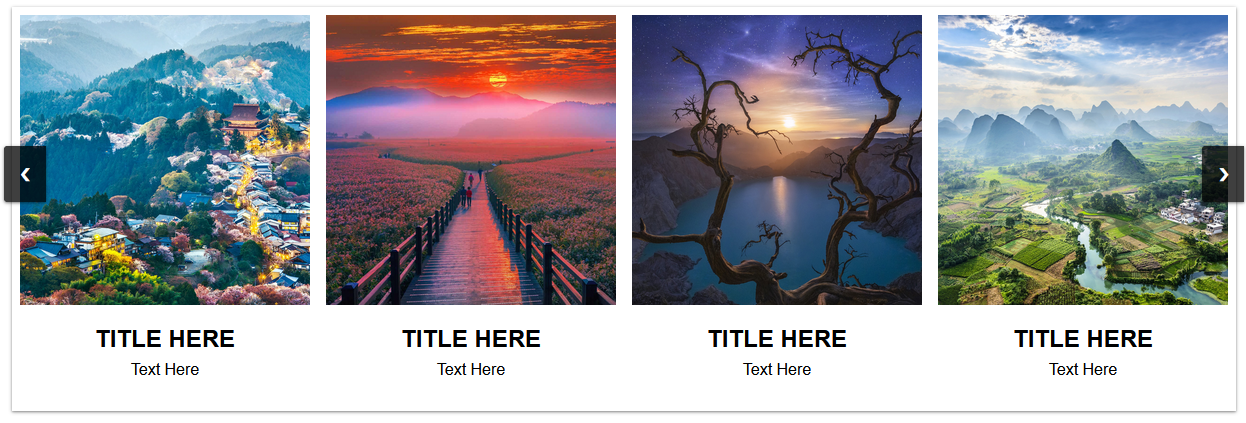
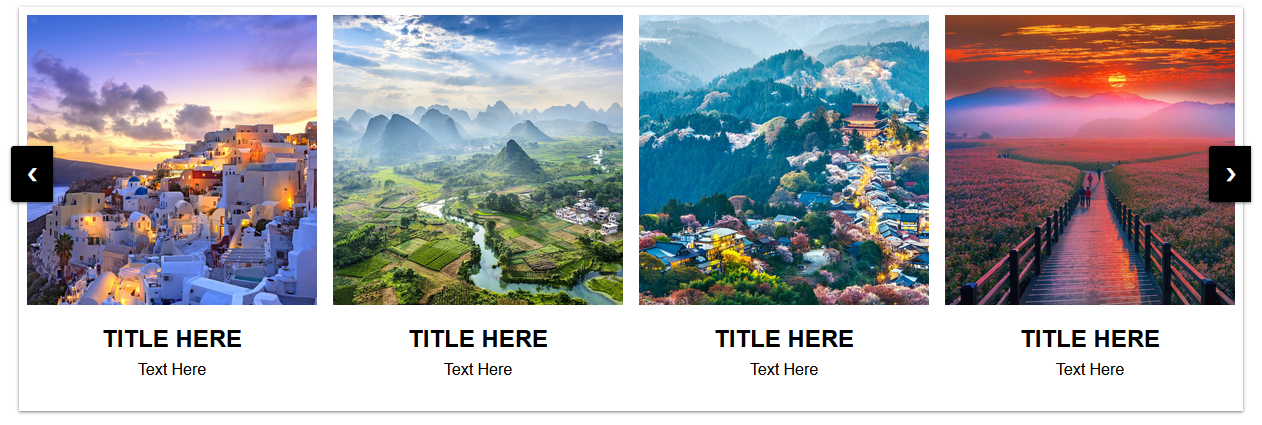
Latest

diff --git a/css/slider.css b/css/slider.css
@@ -47,7 +47,7 @@ body{
     padding: 16px;
     margin-top: -22px;
     color: rgb(255, 255, 255);
-    background-color: rgba(0, 0, 0, 0.753);
+    background-color: rgb(0, 0, 0);
     -webkit-box-shadow: 0 1px 3px rgba(0, 0, 0, 0.12), 0 1px 2px rgba(0, 0, 0, 0.24);
     box-shadow: 0 1px 3px rgba(0, 0, 0, 0.32), 0 1px 2px rgba(0, 0, 0, 0.24);
     font-weight: bold;
